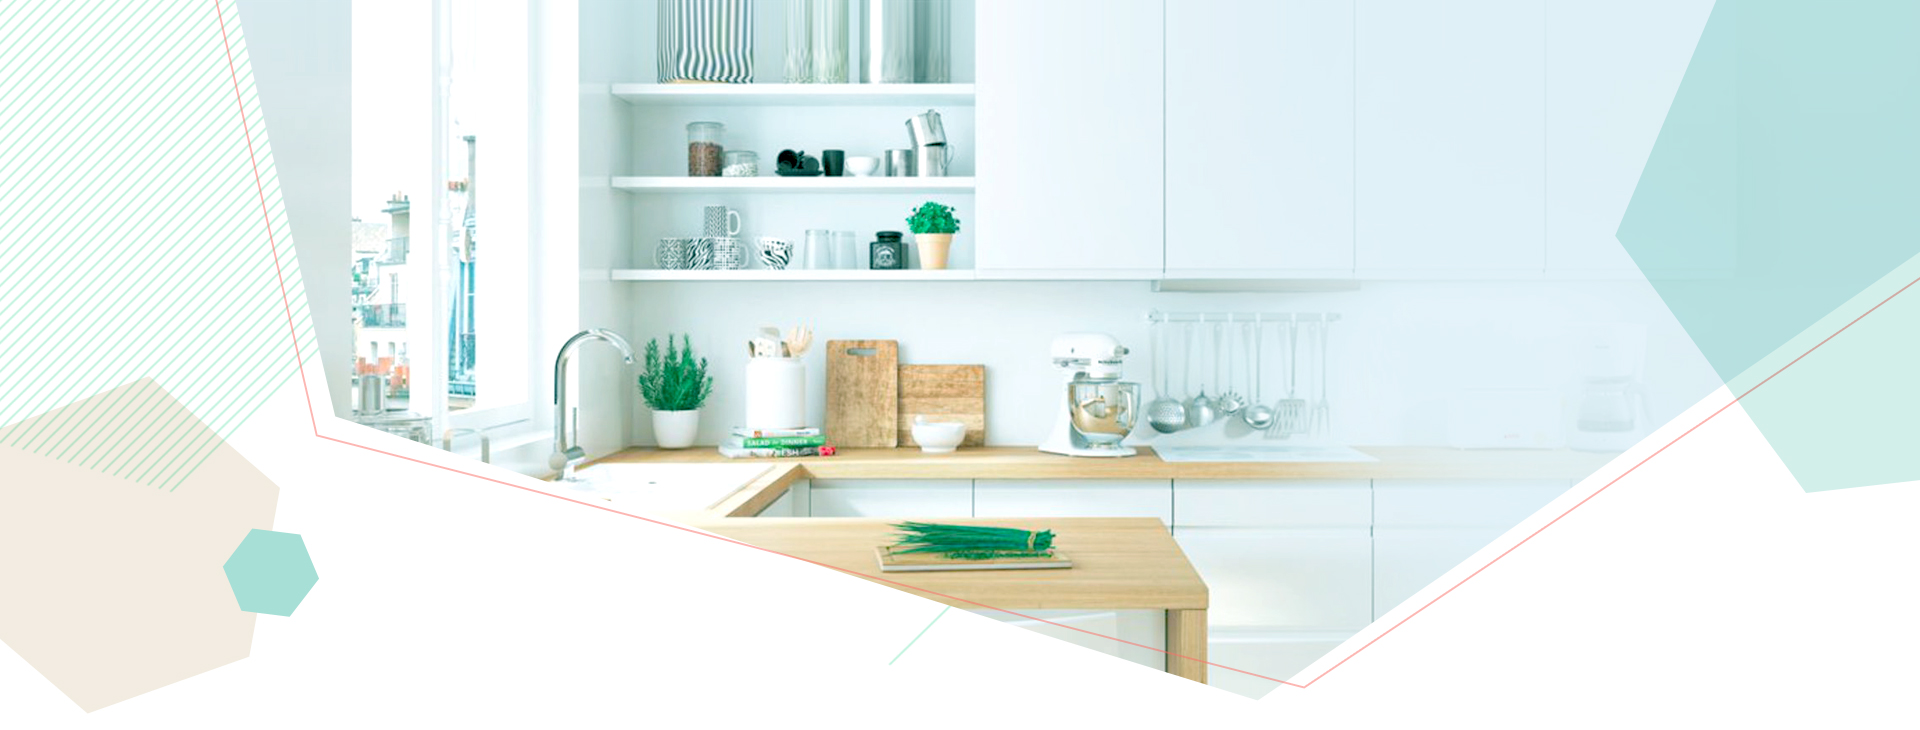
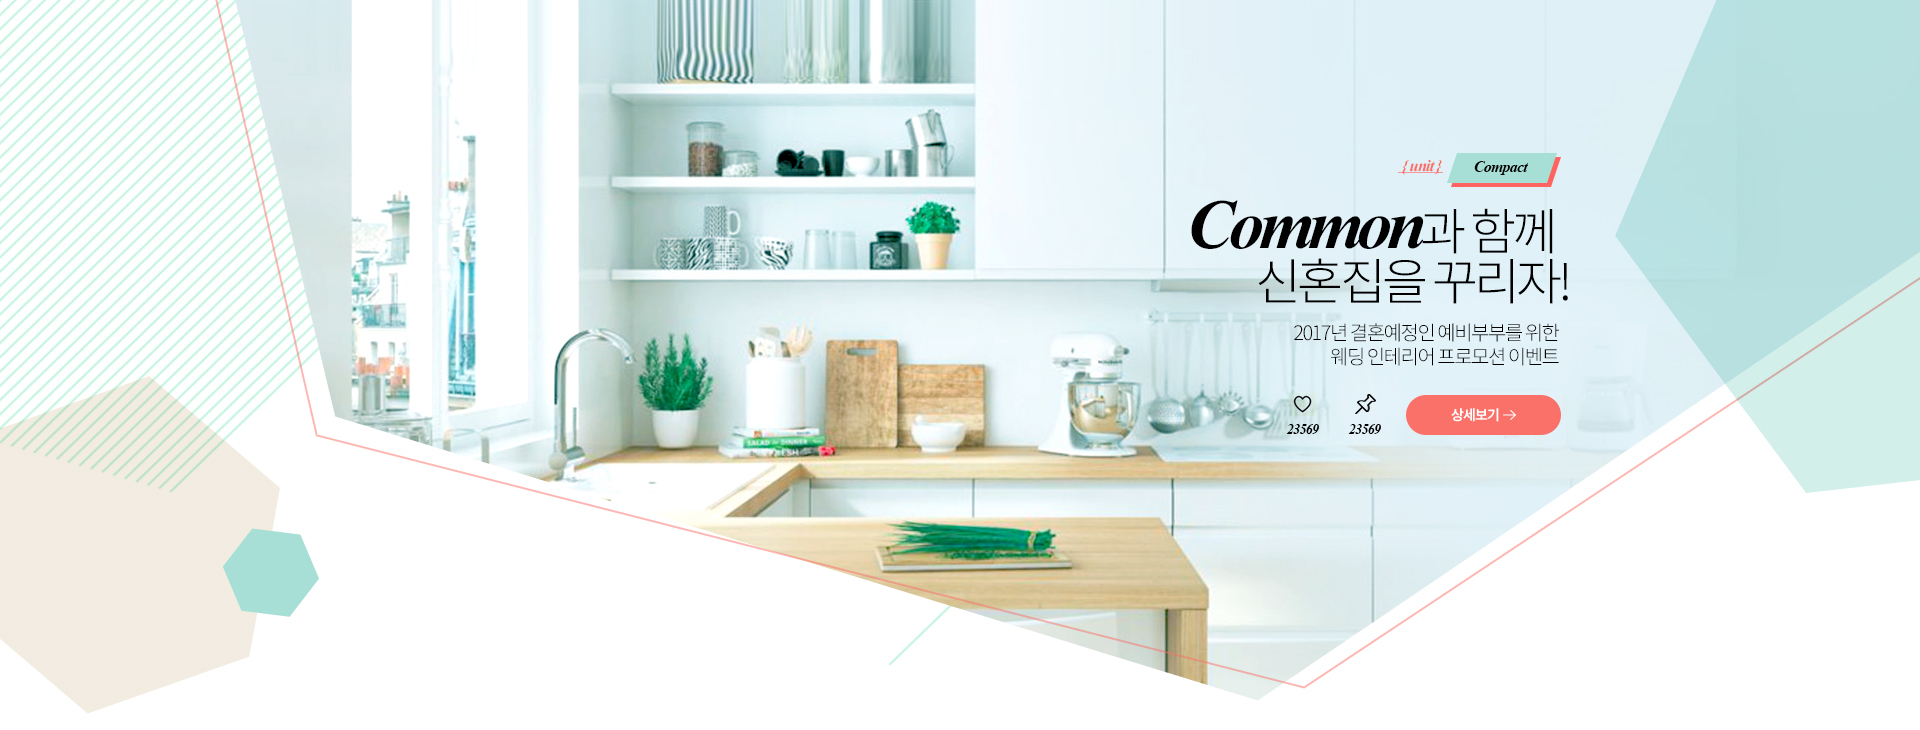
샵, 뉴폼 상단 배너 마크업, css 삭제, 비주얼로 배너로 전환

Changed region(s): [[0.5938, 0.211, 0.8125, 0.5123], [0.6562, 0.5425, 0.8125, 0.6027]]

diff --git a/src/css/11_shop.css b/src/css/11_shop.css
@@ -8,41 +8,6 @@
 .productList .hexSlider .bx-controls{left: auto;right:24%;}
 .productList .hexSlider li{overflow: hidden;width: 100%;}
 .productList .hexSlider li > img{display: block;}
-.productList .subTop .slideCon{position: absolute;z-index: 1;top: 110px;width: 100%;text-align: right;}
-.productList .subTop .slideCon .catWrap{margin-bottom: 20px;}
-.productList .subTop .slideCon .catWrap span{display: inline-block;vertical-align: middle;font-size: 16px;}
-.productList .subTop .slideCon .catWrap .cat{position: relative;}
-.productList .subTop .slideCon .catWrap .cat:after{content:'';position: absolute;bottom: 1px;left:-5px;right:-3px;height: 1px;}
-.productList .subTop .slideCon .catWrap .subCat{position: relative;min-width: 70px;margin-left:15px;padding: 7px 12px;text-align: center;font-style: normal;-ms-transform: skew(-20deg,0deg);-webkit-transform: skew(-20deg,00deg);transform: skew(-20deg,0deg);}
-.productList .subTop .slideCon .subTxt{margin: 18px 0 30px;line-height: 1.2em;font-size: 20px;font-family:'NotoSansL', sans-serif;}
-.productList .subTop .slideCon .subTxt b{font-family:'NotoSansM', sans-serif;}
-.productList .subTop .slideCon .price{margin-bottom:30px;font-size: 120px;letter-spacing: -5px;}
-.productList .subTop .slideCon .price span{font-size: 20px;letter-spacing: 0}
-.productList .subTop .slideCon a{display: inline-block;margin-left: 15px;font-size: 14px;vertical-align: middle;}
-.productList .subTop .slideCon .btnPost{color: #000;}
-.productList .subTop .slideCon .btnPost:before{content:'';display: block;height: 20px;margin:0 auto 10px; background: url('../images/check_icon.png') no-repeat;}
-.productList .subTop .slideCon .btnLike:before{width: 18px;}
-.productList .subTop .slideCon .btnScrap:before{width: 22px;background-position: -18px 0;}
-.productList .subTop .slideCon .btnMore{width: 155px;color: #595485;line-height: 40px;text-align: center;background: #a7dfd6;border-radius: 20px;font-family:'NotoSansM', sans-serif;}
-.productList .subTop .slideCon .btnMore:after{content: '';display: inline-block;width: 13px;height: 10px;margin-left: 5px;background: url('../images/cardMore_arrow.png') no-repeat;vertical-align: middle;}
-
-.shop .pageTit{width: 600px;height: 136px;margin-top: 20px;background-position: 0 -258px;}
-.shop .subTop .slideCon .slideTit{font-size: 30px;font-family:'NotoSansL', sans-serif;line-height: 1.2em;} 
-.shop .subTop .slideCon .catWrap .cat{color: #c2504f;}
-.shop .subTop .slideCon .catWrap .cat:after{background: #f59a9a}
-.shop .subTop .slideCon .catWrap .subCat{color: #fff;background: #f59a9a;box-shadow: 4px 4px 0px #595485}
-.shop .subTop .slideCon .btnMore{color: #595485;background: #a7dfd6;}
-.shop .subTop .slideCon .btnMore:after{background-position: -84px 0;}
-
-.newform .pageTit{width: 600px;height: 140px;background-position: 0 -395px;}
-.newform .subTop .slideCon .slideTit{font-size: 50px;font-family:'NotoSansL', sans-serif;line-height: 1.1em;} 
-.newform .subTop .slideCon .slideTit .italicNum{font-size: 70px;letter-spacing: -2px;}
-.newform .subTop .slideCon .catWrap .cat{color: #fa7169;}
-.newform .subTop .slideCon .catWrap .cat:after{background: #f59a9a}
-.newform .subTop .slideCon .catWrap .subCat{color: #000;background: #a7dfd6;box-shadow: 4px 4px 0px #ff6460}
-.newform .subTop .slideCon .btnMore{color: #fff;background: #fa7169;}
-.newform .subTop .slideCon .btnMore:after{background-position:-98px 0;}
-
 .productList .cardWrap{overflow: hidden;margin-top:15px;}
 
 

diff --git a/src/myPage/myService.html b/src/myPage/myService.html
@@ -158,7 +158,7 @@
 								<p class="date">2016.04.20<br><a href="myServiceDetail.html">2345865</a></p>
 							</td>
 							<td><div class="recordThumb"><img src="../images/temp09.jpg" alt=""></div></td>
-							<td class="recordInfo"><span class="owner">에코인테리어</span><br>[인테리어 패키지] <span class="productTit">모노 화이트 스타일 욕실</span><span class="producOption">옵션 : 오팔 화이트 중형</span><span class="productPrice">38,700,000 원</span>
+							<td class="recordInfo"><span class="owner">에코인테리어</span><br>[인테리어 패키지] <a href=""><span class="productTit">모노 화이트 스타일 욕실</span></a><span class="producOption">옵션 : 오팔 화이트 중형</span><span class="productPrice">38,700,000 원</span>
 							</td>
 							<td>서울시 강남구<br>청담동 248</td>
 							<td>실측 후 게시</td>
@@ -175,7 +175,7 @@
 								<p class="date">2016.04.20<br><a href="myServiceDetail.html">2345865</a></p>
 							</td>
 							<td><div class="recordThumb"><img src="../images/temp09.jpg" alt=""></div></td>
-							<td class="recordInfo"><span class="owner">(주)공간</span><br>[아이방 패키지]<span class="productTit">비스트 콜라보레이션 룸</span><span class="producOption">옵션 : 오팔 화이트 중형</span><span class="productPrice">12,500,000 원</span>
+							<td class="recordInfo"><span class="owner">(주)공간</span><br>[아이방 패키지]<a href=""><span class="productTit">비스트 콜라보레이션 룸</span></a><span class="producOption">옵션 : 오팔 화이트 중형</span><span class="productPrice">12,500,000 원</span>
 							</td>
 							<td>서울시 강남구<br>청담동 248</td>
 							<td>2016.01.20</td>

diff --git a/src/shop/index.html b/src/shop/index.html
@@ -10,23 +10,10 @@
 			<div class="subTop">
 				<div class="hexSlider">
 					<ul id="mainSlider">
-						<li>
-							<div class="wrap">
-								<div class="slideCon">
-									<p class="catWrap italicNum"><span class="cat">{ Kitchen }</span><span class="subCat">Handmade</span></p>
-									<h3 class="slideTit">햇빛이 쨍쨍 뜨거운 여름!<br>가족을 찾아 떠나는 도리와 시원하게 보내세요~</h3>
-									<p class="subTxt">[Disney] 도리를 찾아서 <b>Glass Cup</b></p>
-									<p class="price italicNum">37,000<span> won</span></p>
-									<a href="" class="btnPost btnScrap italicNum">111111</a>
-									<a href="" class="btnPost btnLike italicNum">123456</a>
-									<a href="" class="btnMore">상세보기</a>
-								</div>
-							</div>
-							<img src="/images/temp26.jpg" alt="" class="fullSlideImg"/>
-						</li>
-						<li><img src="/images/temp26.jpg" alt="" class="fullSlideImg"/></li>
-						<li><img src="/images/temp26.jpg" alt="" class="fullSlideImg"/></li>
-						<li><img src="/images/temp26.jpg" alt="" class="fullSlideImg"/></li>
+						<li><a href="javascript:alert('노르달 브랜드페이지로 이동합니다. 노르달 브랜드페이지 적용 후 반영')"><img src="/images/shop_banner_nordal.jpg" alt="" class="fullSlideImg"/></a></li>
+						<li><a href=""><img src="/images/temp26.jpg" alt="" class="fullSlideImg"/></a></li>
+						<li><a href=""><img src="/images/temp26.jpg" alt="" class="fullSlideImg"/></a></li>
+						<li><a href=""><img src="/images/temp26.jpg" alt="" class="fullSlideImg"/></a></li>
 					</ul>
 				</div>
 				<div class="wrap">

diff --git a/src/newForm/index.html b/src/newForm/index.html
@@ -10,22 +10,10 @@
 			<div class="subTop">
 				<div class="hexSlider">
 					<ul id="mainSlider">
-						<li>
-							<div class="wrap">
-								<div class="slideCon">
-									<p class="catWrap italicNum"><span class="cat">{ unit }</span><span class="subCat">Compact</span></p>
-									<h3 class="slideTit"><span class="italicNum">Common</span>과 함께 <br>신혼집을 꾸리자!</h3>
-									<p class="subTxt">2017년 결혼예정인 예비부부를 위한<br>웨딩 인테리어 프로모션 이벤트</p>
-									<a href="" class="btnPost btnScrap italicNum">111111</a>
-									<a href="" class="btnPost btnLike italicNum">123456</a>
-									<a href="" class="btnMore">상세보기</a>
-								</div>
-							</div>
-							<img src="/images/temp31.jpg" alt="" class="fullSlideImg"/>
-						</li>
-						<li><img src="/images/temp31.jpg" alt="" class="fullSlideImg"/></li>
-						<li><img src="/images/temp31.jpg" alt="" class="fullSlideImg"/></li>
-						<li><img src="/images/temp31.jpg" alt="" class="fullSlideImg"/></li>
+						<li><a href=""><img src="/images/temp31.jpg" alt="" class="fullSlideImg"/></a></li>
+						<li><a href=""><img src="/images/temp31.jpg" alt="" class="fullSlideImg"/></a></li>
+						<li><a href=""><img src="/images/temp31.jpg" alt="" class="fullSlideImg"/></a></li>
+						<li><a href=""><img src="/images/temp31.jpg" alt="" class="fullSlideImg"/></a></li>
 					</ul>
 				</div>
 				<div class="wrap">

diff --git a/src/myPage/order.html b/src/myPage/order.html
@@ -167,7 +167,7 @@
 			</td>
 			<td><div class="recordThumb"><img src="{{productImageUrl}}" alt=""></div></td>
 			{{#if orderOptionName}}
-				<td class="recordInfo">{{productName}}<span class="producOption">옵션 : {{orderOptionName}}</span><span class="count">수량 : {{orderQuantity}}</span><span class="productPrice">{{productOptionPriceDesc}} 원</span>
+				<td class="recordInfo" style="padding-left: 0"><a href="/shop/detail.html?productNumber={{productNumber}}" class="color01">{{productName}}</a><span class="producOption">옵션 : {{orderOptionName}}</span><span class="count">수량 : {{orderQuantity}}</span><span class="productPrice">{{productOptionPriceDesc}} 원</span>
 				</td>
 			{{else}}
 				<td class="recordInfo">{{productName}}<span class="count">수량 : {{orderQuantity}}</span><span class="productPrice">{{productOptionPriceDesc}} 원</span>

diff --git a/src/myPage/homeService.html b/src/myPage/homeService.html
@@ -75,6 +75,14 @@
 
 <script id="homeservice-list-templates" type="text/x-handlebars-template">
 {{!-- homeservice-list-templates --}}
+<colgroup>
+	<col style="width:15%">
+	<col style="width:14%">
+	<col style="width:23%">
+	<col style="width:16%">
+	<col style="width:16%">
+	<col style="width:16%">
+</colgroup>
 <caption>홈서비스 목록 표</caption>
 <tr>
 	<th>신청일/신청번호</th>
